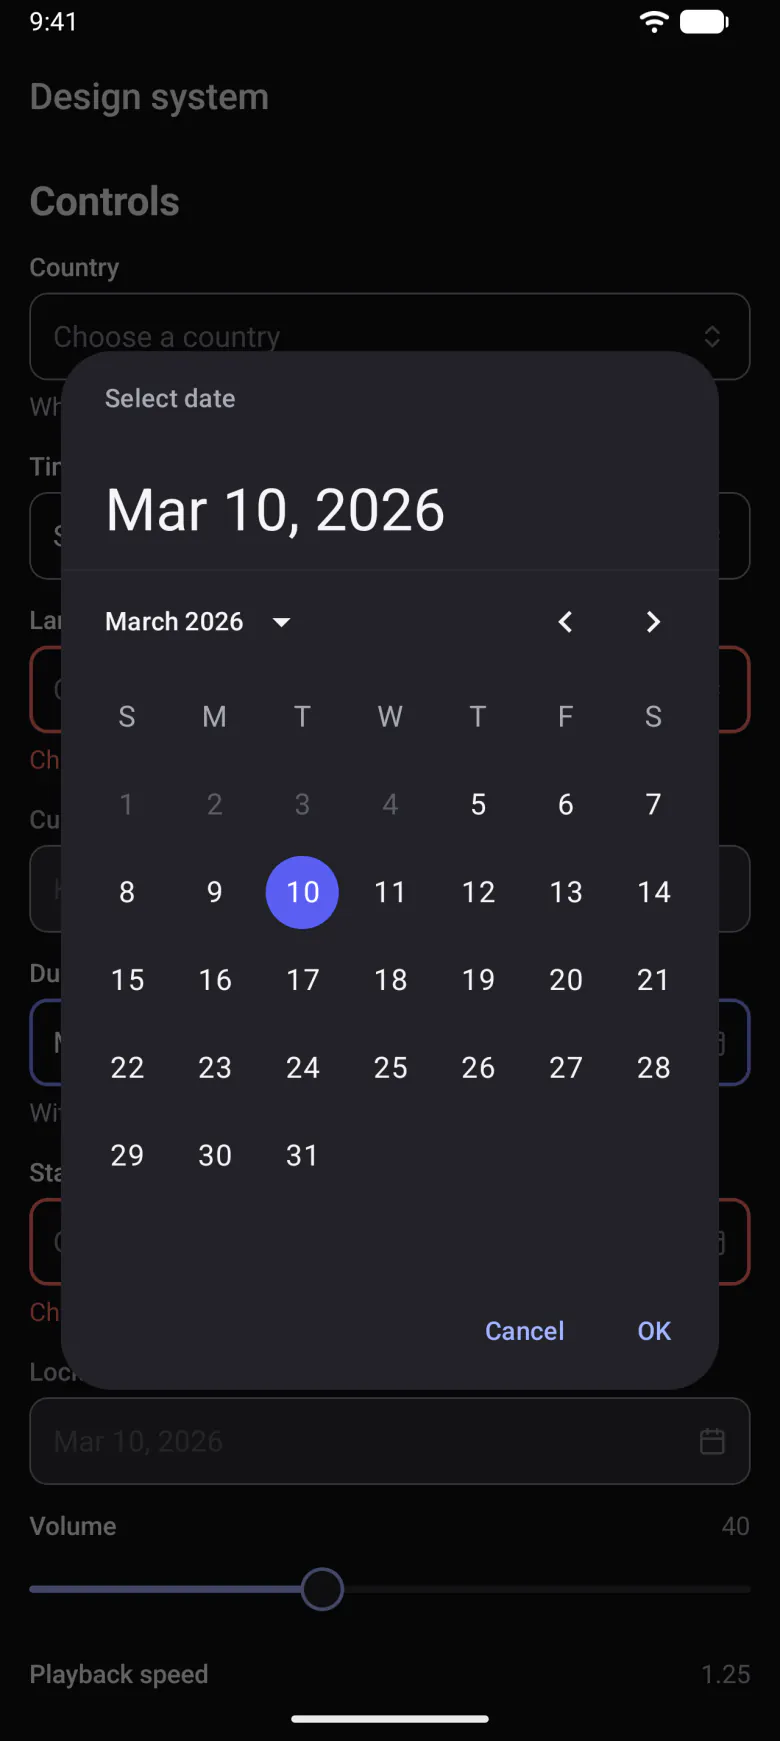
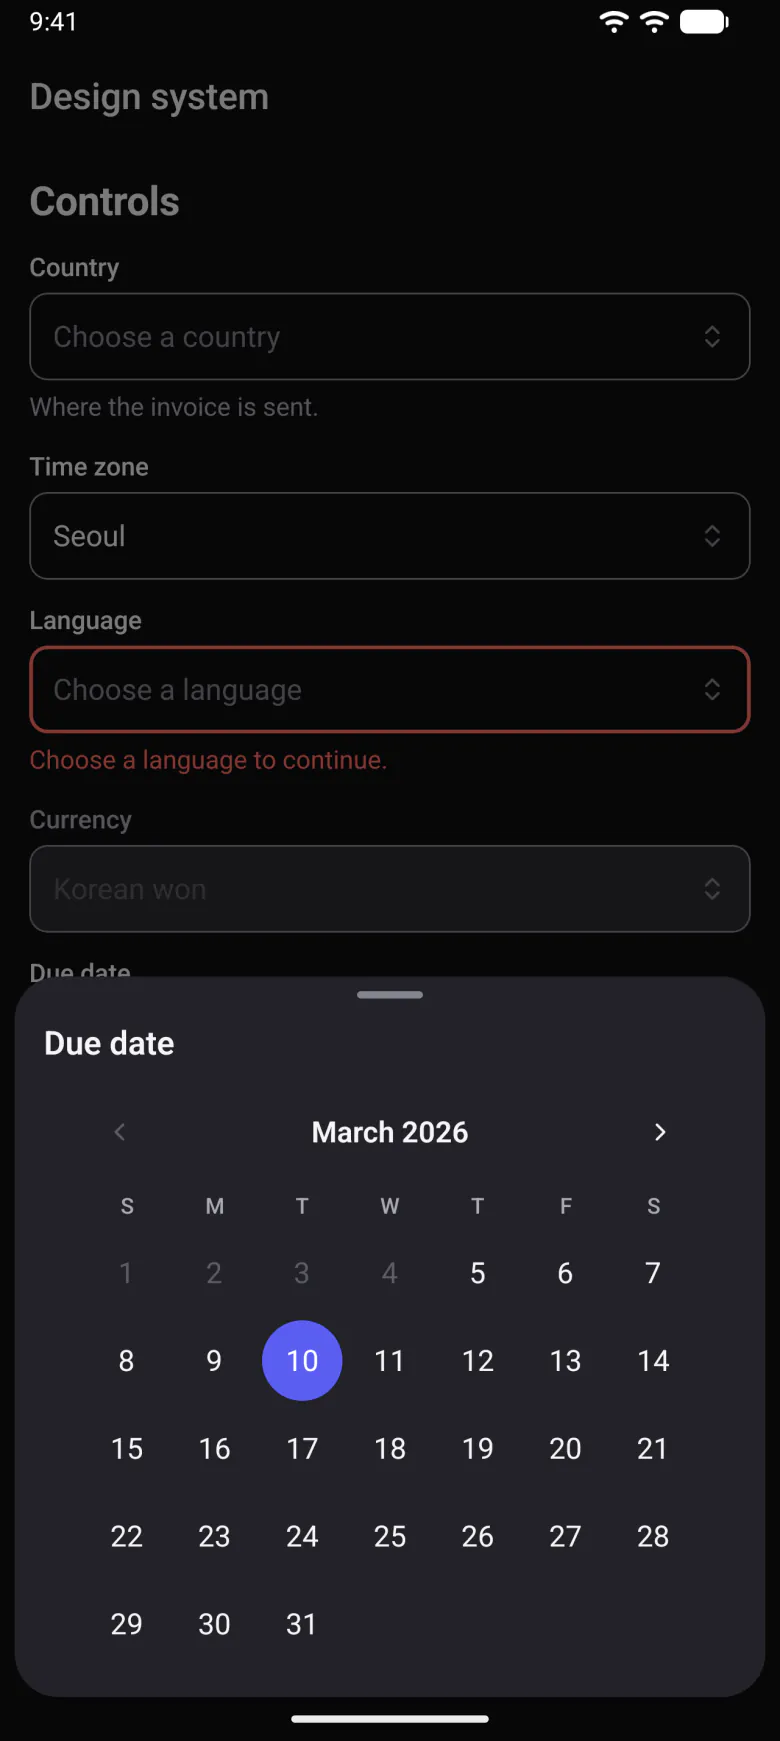
Retake the date pickers' captures, and add DateRangePicker's
The DatePicker captures for iOS and Android show the calendar now drawn from the tokens, in the
same words as Compose's, which is retaken because its fingerprint changed. DateRangePicker gets a
daterange capture on iOS, Android and Compose: the Stay sheet with the range drawn, opened by
`?section=controls&daterange=1` and by the Compose renderer's new DateRange screen.

A capture's fingerprint now covers the files its component's source draws with that the contract
does not name: the calendar and the sheet the two date pickers share on React Native and on
Compose. A change to the shared calendar then marks the pictures of both stale, which the
DatePicker capture's fingerprint missed while its calendar lived in files of their own.

diff --git a/apps/docs/scripts/capture.ts b/apps/docs/scripts/capture.ts
@@ -4,8 +4,9 @@
 //
 //   navigation  TopBar and TabBar: the design preview's Navigation section at the top of a phone
 //   sheet       BottomSheet: the same screen with the sheet open, and on iOS a clip of it rising
-//   datepicker  DatePicker: the preview's first date picker with its calendar open, which on iOS
-//               and Android is the system's
+//   datepicker  DatePicker: the preview's first date picker with its calendar open
+//   daterange   DateRangePicker: the preview's first date range picker with its sheet of months
+//               open
 //
 // Besides ffmpeg and cwebp (`brew install ffmpeg webp`), each platform needs:
 //
@@ -49,9 +50,22 @@ const manifestFile = join(docs, "captures.json");
 /** The same words for iOS and Android, where React Native draws the same thing on both. */
 const reactNative = (alt: string) => ({ ios: alt, android: alt });
 
+/** The date picker's sheet, which React Native and Compose draw from the same tokens. */
+const DUE =
+  "A bottom sheet titled Due date over the dimmed design preview, holding the calendar for " +
+  "March 2026 drawn from the tokens between buttons for the months before and after, with the " +
+  "10th chosen and the days before the 5th greyed out.";
+
+/** The range picker's sheet, which React Native and Compose draw from the same tokens. */
+const STAY =
+  "A tall bottom sheet titled Stay over the dimmed design preview: Check-in Mar 10, 2026 and " +
+  "Check-out Mar 14, 2026 at the top, the weekday initials, March 2026 with a band from the " +
+  "10th to the 14th between two filled circles and the days before the 5th greyed out, April " +
+  "2026 under it with the days after the 20th greyed out, and a Done button at the bottom.";
+
 /**
- * What each capture shows. React Native and Compose word their samples differently, so each
- * describes its own, and where the system draws a part, iOS and Android differ too.
+ * What each capture shows. React Native and Compose word some of their samples differently, so
+ * each describes its own.
  */
 const NAMES: Record<CaptureName, { components: string[]; alt: Record<CapturePlatform, string> }> = {
   navigation: {
@@ -85,18 +99,15 @@ const NAMES: Record<CaptureName, { components: string[]; alt: Record<CapturePlat
   datepicker: {
     components: ["DatePicker"],
     alt: {
-      ios:
-        "A bottom sheet titled Due date over the dimmed design preview, holding the iOS " +
-        "calendar for March 2026 with the 10th chosen and the days before the 5th greyed out, " +
-        "and a Done button under it.",
-      android:
-        "Material's date dialog over the dimmed design preview: the title Select date, the " +
-        "chosen day Mar 10, 2026, the calendar for March 2026 with the 10th chosen and the days " +
-        "before the 5th greyed out, and Cancel and OK buttons.",
-      compose:
-        "A bottom sheet titled Due date over the dimmed design preview, holding the calendar " +
-        "for March 2026 drawn from the tokens, with the 10th chosen and the days before the 5th " +
-        "greyed out.",
+      ...reactNative(DUE),
+      compose: DUE,
+    },
+  },
+  daterange: {
+    components: ["DateRangePicker"],
+    alt: {
+      ...reactNative(STAY),
+      compose: STAY,
     },
   },
 };

diff --git a/apps/docs/scripts/captures.ts b/apps/docs/scripts/captures.ts
@@ -49,15 +49,40 @@ const TOKEN_FILES: Record<string, string[]> = {
   "kotlin-compose": ["kotlin/ui/src/commonMain/kotlin/acme/tokens/Tokens.kt"],
 };
 
+const NATIVE_CALENDAR = [
+  "packages/ui-native/src/BottomSheet.tsx",
+  "packages/ui-native/src/Calendar.tsx",
+  "packages/ui-native/src/datePicker.ts",
+  "packages/ui-native/src/dateRange.ts",
+];
+const COMPOSE_CALENDAR = [
+  "kotlin/ui/src/commonMain/kotlin/acme/ui/BottomSheet.kt",
+  "kotlin/ui/src/commonMain/kotlin/acme/ui/DatePicker.kt",
+  "kotlin/ui/src/commonMain/kotlin/acme/ui/DateRangePicker.kt",
+];
+
+/**
+ * The files a component's source draws its picture with besides itself, where they are not in
+ * the contract: the calendar and the sheet the two date pickers share. A change to the calendar
+ * then marks the pictures of both stale.
+ */
+const PARTS: Record<string, string[]> = {
+  "packages/ui-native/src/DatePicker.tsx": NATIVE_CALENDAR,
+  "packages/ui-native/src/DateRangePicker.tsx": NATIVE_CALENDAR,
+  "kotlin/ui/src/commonMain/kotlin/acme/ui/DatePicker.kt": COMPOSE_CALENDAR,
+  "kotlin/ui/src/commonMain/kotlin/acme/ui/DateRangePicker.kt": COMPOSE_CALENDAR,
+};
+
 type Contract = {
   components: { name: string; clients: Record<string, { source: string }> }[];
 };
 
 /**
  * The files a capture depends on: the sources of the components it shows, on the client it was
- * taken from, and that client's tokens. The design preview screen that holds them is left out on
- * purpose: nearly every change to a component also changes that screen, and a picture flagged
- * after every change would teach readers to ignore the flag.
+ * taken from, the parts those sources draw with (PARTS), and that client's tokens. The design
+ * preview screen that holds them is left out on purpose: nearly every change to a component
+ * also changes that screen, and a picture flagged after every change would teach readers to
+ * ignore the flag.
  */
 export function captureInputs(capture: Capture, contract: Contract): string[] {
   const tokens = TOKEN_FILES[capture.client];
@@ -68,7 +93,8 @@ export function captureInputs(capture: Capture, contract: Contract): string[] {
     if (!source) throw new Error(`captures.json: ${name} has no ${capture.client} source`);
     return source;
   });
-  return [...new Set([...sources, ...tokens])].sort();
+  const parts = sources.flatMap((source) => PARTS[source] ?? []);
+  return [...new Set([...sources, ...parts, ...tokens])].sort();
 }
 
 /**

diff --git a/apps/docs/scripts/capture/mobile.ts b/apps/docs/scripts/capture/mobile.ts
@@ -159,8 +159,8 @@ async function maestro(
  * Takes the stills (and, where the device records, the clips) of every name in `names`, in both
  * modes. `navigation` and `sheet` start from the preview's Navigation section: `navigation` is a
  * picture of it, and `sheet` presses its button and records the sheet rising over it, so that
- * the clip ends on the sheet's still. `datepicker` starts the preview at Controls with the
- * calendar of its first date picker open.
+ * the clip ends on the sheet's still. `datepicker` and `daterange` start the preview at Controls
+ * with the calendar of its first date picker, or of its first date range picker, open.
  */
 export async function shoot(
   device: Device,
@@ -174,16 +174,18 @@ export async function shoot(
   await mkdir(context.raw, { recursive: true });
   for (const mode of MODES) {
     await device.setMode(mode);
-    if (names.includes("datepicker")) {
+    for (const name of ["datepicker", "daterange"] as const) {
+      if (!names.includes(name)) continue;
       await maestro(
         device,
         "open.yaml",
-        // The month the picker's day is in, which both systems' calendars write out. It is
-        // long over, so neither marks today in it, and the picture is the same every day.
-        { LINK: `${scheme}://design?section=controls&datepicker=1`, TEXT: "March 2026" },
+        // The month of the picker's day, or of its range's start, which the calendar heads with
+        // its name. It is long over, so no day in it is today, and the picture is the same every
+        // day.
+        { LINK: `${scheme}://design?section=controls&${name}=1`, TEXT: "March 2026" },
         context,
       );
-      await device.screenshot(file("datepicker", mode, "png"));
+      await device.screenshot(file(name, mode, "png"));
     }
     if (!names.includes("navigation") && !names.includes("sheet")) continue;
     await maestro(

diff --git a/kotlin/ui/src/jvmTest/kotlin/acme/ui/RenderPreview.kt b/kotlin/ui/src/jvmTest/kotlin/acme/ui/RenderPreview.kt
@@ -91,13 +91,15 @@ fun main(args: Array<String>) {
  * The pictures on the components' documentation pages, which `mise run docs:capture` takes from
  * here, of a phone's screen: the Navigation section at the top, where React Native's preview
  * starts with `?section=navigation`, the sheet open over it, and the Controls section with the
- * calendar of its first date picker open, as `?section=controls&datepicker=1` shows it there.
+ * calendar of its first date picker open, as `?section=controls&datepicker=1` shows it there,
+ * or of its first date range picker, as `?section=controls&daterange=1` does.
  */
 private fun captures(directory: File) {
     val screens = listOf(
         Triple("navigation", "navigation", null),
         Triple("sheet", "navigation", PreviewOverlay.Sheet),
         Triple("datepicker", "controls", PreviewOverlay.DatePicker),
+        Triple("daterange", "controls", PreviewOverlay.DateRange),
     )
     for (mode in Mode.entries) {
         for ((name, from, open) in screens) {

diff --git a/apps/docs/scripts/capture/types.ts b/apps/docs/scripts/capture/types.ts
@@ -1,7 +1,7 @@
 import type { Mode } from "../captures.ts";
 
 /** The captures this task knows how to take. */
-export type CaptureName = "navigation" | "sheet" | "datepicker";
+export type CaptureName = "navigation" | "sheet" | "datepicker" | "daterange";
 
 /** What a platform drew for one capture: a PNG per mode, and a recording per mode for a clip. */
 export type Raw = { still: Record<Mode, string>; clip?: Record<Mode, string> };
